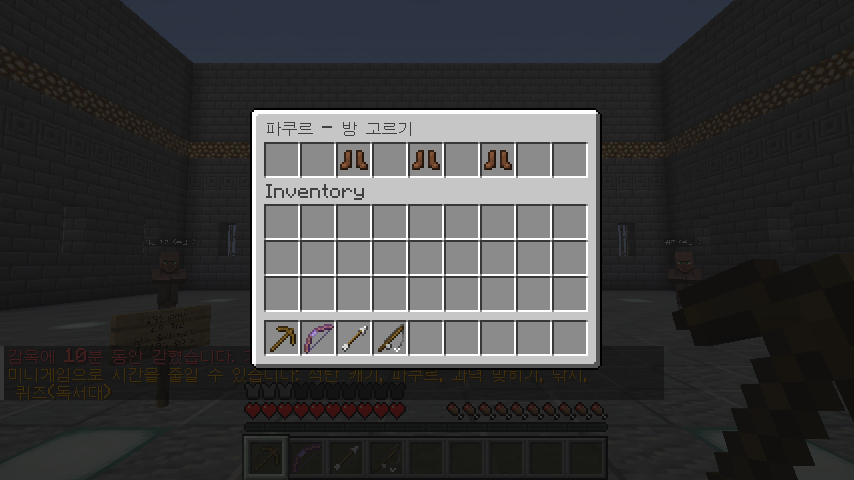
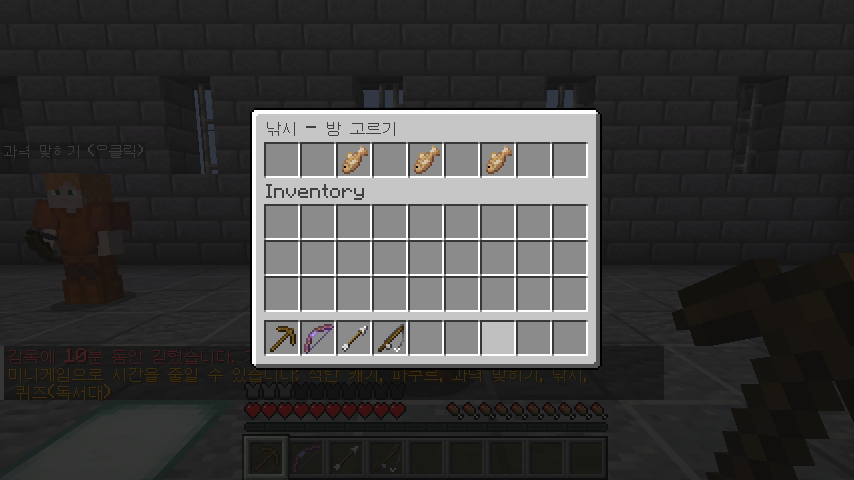
Jail mod: NPCs answer a right-click; prisoners in uniform as NPCs

diff --git a/jail-mod/src/main/java/com/example/jail/JailBuilder.java b/jail-mod/src/main/java/com/example/jail/JailBuilder.java
@@ -5,7 +5,15 @@ import net.minecraft.network.chat.Component;
 import net.minecraft.server.level.ServerLevel;
 import net.minecraft.world.entity.EntitySpawnReason;
 import net.minecraft.world.entity.EntityTypes;
+import com.mojang.brigadier.exceptions.CommandSyntaxException;
+import net.minecraft.nbt.TagParser;
+import net.minecraft.util.ProblemReporter;
+import net.minecraft.world.entity.EquipmentSlot;
+import net.minecraft.world.entity.decoration.Mannequin;
 import net.minecraft.world.entity.npc.villager.Villager;
+import net.minecraft.world.item.ItemStack;
+import net.minecraft.world.item.Items;
+import net.minecraft.world.level.storage.TagValueInput;
 import net.minecraft.world.item.DyeColor;
 import net.minecraft.world.level.block.Block;
 import net.minecraft.world.level.block.Blocks;
@@ -73,7 +81,10 @@ public final class JailBuilder {
         if (!level.areEntitiesLoaded(net.minecraft.world.level.ChunkPos.pack(at))) {
             return;
         }
-        List<Villager> found = level.getEntitiesOfClass(Villager.class, new AABB(at).inflate(1.5), v -> key.equals(npcKey(v)));
+        AABB around = new AABB(at).inflate(1.5);
+        // The first NPCs were villagers: they go.
+        level.getEntitiesOfClass(Villager.class, around, v -> npcKey(v) != null).forEach(v -> v.discard());
+        List<Mannequin> found = level.getEntitiesOfClass(Mannequin.class, around, m -> key.equals(npcKey(m)));
         if (found.isEmpty()) {
             npc(level, at, name, key, looking);
         }
@@ -125,31 +136,44 @@ public final class JailBuilder {
         return window ? Blocks.IRON_BARS : y == 70 ? Blocks.CHISELED_STONE_BRICKS : y % 9 == 0 ? Blocks.GLOWSTONE : Blocks.STONE_BRICKS;
     }
 
-    /** A villager that stands still, cannot be hurt, and shows its name; replaces any NPC already standing there. */
-    public static void npc(ServerLevel level, BlockPos at, String name, String key) {
-        npc(level, at, name, key, SPAWN);
-    }
-
-    /** As above, looking towards a point. */
+    /**
+     * An NPC: a fellow prisoner (a vanilla mannequin, shaped like a player) in the orange uniform, holding the game's
+     * tool, standing still where nothing can hurt or move it, its name shown above it. Replaces any NPC already there.
+     */
     public static void npc(ServerLevel level, BlockPos at, String name, String key, Vec3 looking) {
         AABB around = new AABB(at).inflate(1.5);
-        level.getEntitiesOfClass(Villager.class, around, v -> v.entityTags().contains(NPC_TAG)).forEach(v -> v.discard());
-        Villager villager = EntityTypes.VILLAGER.create(level, EntitySpawnReason.COMMAND);
-        if (villager == null) {
+        level.getEntitiesOfClass(Mannequin.class, around, m -> npcKey(m) != null).forEach(m -> m.discard());
+        Mannequin npc = EntityTypes.MANNEQUIN.create(level, EntitySpawnReason.COMMAND);
+        if (npc == null) {
             return;
+        }
+        try {
+            npc.load(TagValueInput.create(ProblemReporter.DISCARDING, level.registryAccess(),
+                    TagParser.parseCompoundFully("{immovable:1b,hide_description:1b,Invulnerable:1b,Silent:1b,PersistenceRequired:1b}")));
+        } catch (CommandSyntaxException impossible) {
+            throw new IllegalStateException(impossible);
         }
         Vec3 pos = Vec3.atBottomCenterOf(at);
         double yaw = Math.toDegrees(Math.atan2(-(looking.x - pos.x), looking.z - pos.z));
-        villager.snapTo(pos.x, pos.y, pos.z, (float) yaw, 0.0F);
-        villager.setYHeadRot((float) yaw);
-        villager.setNoAi(true);
-        villager.setSilent(true);
-        villager.setPersistenceRequired();
-        villager.setCustomName(Component.literal(name));
-        villager.setCustomNameVisible(true);
-        villager.addTag(NPC_TAG);
-        villager.addTag(NPC_TAG + ":" + key);
-        level.addFreshEntity(villager);
+        npc.snapTo(pos.x, pos.y, pos.z, (float) yaw, 0.0F);
+        npc.setYHeadRot((float) yaw);
+        npc.setYBodyRot((float) yaw);
+        npc.setCustomName(Component.literal(name));
+        npc.setCustomNameVisible(true);
+        npc.setItemSlot(EquipmentSlot.CHEST, Jail.uniformPiece(level, Items.LEATHER_CHESTPLATE, "죄수복 상의"));
+        npc.setItemSlot(EquipmentSlot.LEGS, Jail.uniformPiece(level, Items.LEATHER_LEGGINGS, "죄수복 바지"));
+        npc.setItemSlot(EquipmentSlot.FEET, Jail.uniformPiece(level, Items.LEATHER_BOOTS, "죄수 신발"));
+        npc.setItemSlot(EquipmentSlot.MAINHAND, new ItemStack(switch (key) {
+            case "coal" -> Items.WOODEN_PICKAXE;
+            case "target" -> Items.BOW;
+            case "fish" -> Items.FISHING_ROD;
+            case "quiz" -> Items.BOOK;
+            case "parkour" -> Items.FEATHER;
+            default -> Items.AIR;
+        }));
+        npc.addTag(NPC_TAG);
+        npc.addTag(NPC_TAG + ":" + key);
+        level.addFreshEntity(npc);
     }
 
     /** The key of an NPC ("coal", "exit"...), or null if the entity is not a jail NPC. */

diff --git a/jail-mod/src/gametest/java/com/example/jail/test/JailClientGameTest.java b/jail-mod/src/gametest/java/com/example/jail/test/JailClientGameTest.java
@@ -31,10 +31,49 @@ public final class JailClientGameTest implements FabricClientGameTest {
             }
             shot(context, world, name, "jail_yard", "0.5 64 6 facing 0.5 65 -9");
 
-            world.getServer().runOnServer(server -> RoomMenu.open(player(server, name), MiniGames.Game.PARKOUR));
+            // A real right-click on the fishing NPC opens its room picker.
+            shot(context, world, name, "jail_npc_close", "5.5 64 -7 facing 5.5 65.6 -9.5");
+            net.minecraft.world.phys.Vec3 npcAt = world.getServer().computeOnServer(server -> {
+                var level = Jail.level(server);
+                var found = level.getEntitiesOfClass(net.minecraft.world.entity.decoration.Mannequin.class,
+                        new net.minecraft.world.phys.AABB(-16, 60, -16, 16, 72, 16), m -> "fish".equals(com.example.jail.JailBuilder.npcKey(m)));
+                return found.get(0).position().add(0, 1.2, 0);
+            });
+            context.runOnClient(client -> client.player.lookAt(net.minecraft.commands.arguments.EntityAnchorArgument.Anchor.EYES, npcAt));
+            context.waitTicks(5);
+            context.getInput().pressKey(options -> options.keyUse);
             context.waitTicks(10);
+            boolean menu = world.getServer().computeOnServer(server -> player(server, name).containerMenu instanceof RoomMenu);
+            if (!menu) {
+                throw new AssertionError("right-clicking the fishing NPC opened no room picker");
+            }
             context.takeScreenshot(TestScreenshotOptions.of("jail_room_menu"));
-            world.getServer().runOnServer(server -> player(server, name).closeContainer());
+            world.getServer().runOnServer(server -> player(server, name).containerMenu.clicked(RoomMenu.SLOTS[0], 0,
+                    net.minecraft.world.inventory.ContainerInput.PICKUP, player(server, name)));
+            context.waitTicks(40);
+            boolean inRoom = world.getServer().computeOnServer(server -> Rooms.room(MiniGames.Game.FISH, 0).equals(Rooms.of(player(server, name))));
+            if (!inRoom) {
+                throw new AssertionError("clicking room 1 did not go to fishing room 1");
+            }
+            // A real right-click on the room's NPC goes back to the yard.
+            Rooms.Room fish = Rooms.room(MiniGames.Game.FISH, 0);
+            int fx = fish.origin().getX(), fz = fish.origin().getZ();
+            world.getServer().runCommand("execute in jail:jail run tp " + name + " " + (fx - 27.5) + " 64 " + (fz - 1.5));
+            context.waitTicks(40);
+            net.minecraft.world.phys.Vec3 exitAt = world.getServer().computeOnServer(server -> Jail.level(server)
+                    .getEntitiesOfClass(net.minecraft.world.entity.decoration.Mannequin.class,
+                            new net.minecraft.world.phys.AABB(fx - 32, 60, fz - 10, fx - 20, 72, fz + 10), m -> "exit".equals(com.example.jail.JailBuilder.npcKey(m)))
+                    .get(0).position().add(0, 1.2, 0));
+            context.runOnClient(client -> client.player.lookAt(net.minecraft.commands.arguments.EntityAnchorArgument.Anchor.EYES, exitAt));
+            context.waitTicks(5);
+            world.getConnection().waitForChunksRender();
+            context.takeScreenshot(TestScreenshotOptions.of("jail_exit_npc"));
+            context.getInput().pressKey(options -> options.keyUse);
+            context.waitTicks(10);
+            boolean yard = world.getServer().computeOnServer(server -> com.example.jail.JailBuilder.inHub(player(server, name).position()));
+            if (!yard) {
+                throw new AssertionError("right-clicking the room's NPC did not go back to the yard");
+            }
 
             for (MiniGames.Game game : MiniGames.Game.values()) {
                 world.getServer().runOnServer(server -> Rooms.enter(player(server, name), Rooms.room(game, 0)));

diff --git a/jail-mod/src/gametest/java/com/example/jail/test/JailGameTests.java b/jail-mod/src/gametest/java/com/example/jail/test/JailGameTests.java
@@ -11,7 +11,7 @@ import net.fabricmc.fabric.api.event.player.UseEntityCallback;
 import net.minecraft.core.component.DataComponents;
 import net.minecraft.world.InteractionHand;
 import net.minecraft.world.entity.EquipmentSlot;
-import net.minecraft.world.entity.npc.villager.Villager;
+import net.minecraft.world.entity.decoration.Mannequin;
 import net.minecraft.world.inventory.ContainerInput;
 import net.minecraft.world.phys.AABB;
 import net.fabricmc.fabric.api.gametest.v1.GameTest;
@@ -257,21 +257,26 @@ public final class JailGameTests {
         Jail.jail(player, 5);
         ServerLevel jail = (ServerLevel) player.level();
         helper.succeedWhen(() -> {
-            var npcs = jail.getEntitiesOfClass(Villager.class, new AABB(-16, 60, -16, 16, 72, 16), v -> JailBuilder.npcKey(v) != null);
+            var npcs = jail.getEntitiesOfClass(Mannequin.class, new AABB(-16, 60, -16, 16, 72, 16), v -> JailBuilder.npcKey(v) != null);
             helper.assertValueEqual(npcs.size(), MiniGames.Game.values().length, "NPCs in the yard");
-            helper.assertTrue(npcs.stream().allMatch(Villager::isNoAi), "an NPC walks about");
+            helper.assertTrue(npcs.stream().allMatch(n -> n.getItemBySlot(EquipmentSlot.CHEST).is(Items.LEATHER_CHESTPLATE)), "an NPC without the uniform");
             if (Rooms.of(player) == null) {
-                RoomMenu.open(player, MiniGames.Game.FISH);
+                // A right-click as the game sends it: with the point it hit, for the main hand (and maybe the off hand too).
+                Mannequin fishing = npcs.stream().filter(n -> "fish".equals(JailBuilder.npcKey(n))).findFirst().orElseThrow();
+                var at = new net.minecraft.world.phys.EntityHitResult(fishing, fishing.position().add(0, 1, 0));
+                UseEntityCallback.EVENT.invoker().interact(player, jail, InteractionHand.MAIN_HAND, fishing, at);
+                UseEntityCallback.EVENT.invoker().interact(player, jail, InteractionHand.OFF_HAND, fishing, at);
                 helper.assertTrue(player.containerMenu instanceof RoomMenu, "no room picker: " + player.containerMenu);
                 helper.assertTrue(player.containerMenu.getSlot(RoomMenu.SLOTS[1]).getItem().is(Items.COD), "no icon for fishing room 2");
                 player.containerMenu.clicked(RoomMenu.SLOTS[1], 0, ContainerInput.PICKUP, player);
                 helper.assertTrue(player.containerMenu == player.inventoryMenu, "the room picker stayed open");
             }
             helper.assertTrue(Rooms.room(MiniGames.Game.FISH, 1).equals(Rooms.of(player)), "the click did not go to fishing room 2: " + player.position());
-            var exit = jail.getEntitiesOfClass(Villager.class, new AABB(BlockPos.containing(Rooms.room(MiniGames.Game.FISH, 1).spawn())).inflate(6),
+            var exit = jail.getEntitiesOfClass(Mannequin.class, new AABB(BlockPos.containing(Rooms.room(MiniGames.Game.FISH, 1).spawn())).inflate(6),
                     v -> "exit".equals(JailBuilder.npcKey(v)));
             helper.assertValueEqual(exit.size(), 1, "exit NPCs in the room");
-            UseEntityCallback.EVENT.invoker().interact(player, jail, InteractionHand.MAIN_HAND, exit.get(0), null);
+            UseEntityCallback.EVENT.invoker().interact(player, jail, InteractionHand.MAIN_HAND, exit.get(0),
+                    new net.minecraft.world.phys.EntityHitResult(exit.get(0), exit.get(0).position().add(0, 1, 0)));
             helper.assertTrue(JailBuilder.inHub(player.position()), "the exit NPC did not lead to the yard: " + player.position());
             Jail.release(player);
         });

diff --git a/jail-mod/src/main/java/com/example/jail/Jail.java b/jail-mod/src/main/java/com/example/jail/Jail.java
@@ -240,17 +240,25 @@ public final class Jail {
     }
 
     private static void uniform(ServerPlayer player, EquipmentSlot slot, net.minecraft.world.item.Item item, String name) {
-        if (player.getItemBySlot(slot).is(item)) {
-            return;
+        if (!player.getItemBySlot(slot).is(item)) {
+            player.setItemSlot(slot, uniformPiece(player.level(), item, name));
         }
+    }
+
+    /** A piece of the uniform: orange leather, never wears out, cursed with binding. */
+    public static ItemStack uniformPiece(Level level, net.minecraft.world.item.Item item, String name) {
         ItemStack piece = tool(new ItemStack(item), name);
         piece.set(DataComponents.DYED_COLOR, new DyedItemColor(UNIFORM));
-        piece.enchant(enchantment(player, Enchantments.BINDING_CURSE), 1);
-        player.setItemSlot(slot, piece);
+        piece.enchant(enchantment(level, Enchantments.BINDING_CURSE), 1);
+        return piece;
     }
 
     private static Holder<Enchantment> enchantment(ServerPlayer player, ResourceKey<Enchantment> key) {
-        return player.level().registryAccess().lookupOrThrow(Registries.ENCHANTMENT).getOrThrow(key);
+        return enchantment(player.level(), key);
+    }
+
+    private static Holder<Enchantment> enchantment(Level level, ResourceKey<Enchantment> key) {
+        return level.registryAccess().lookupOrThrow(Registries.ENCHANTMENT).getOrThrow(key);
     }
 
     /** Whether a player has all the jail's things (given again after a death in jail). */

diff --git a/jail-mod/src/main/java/com/example/jail/JailMod.java b/jail-mod/src/main/java/com/example/jail/JailMod.java
@@ -83,8 +83,8 @@ public final class JailMod implements ModInitializer {
             if (key == null) {
                 return InteractionResult.PASS;
             }
-            // Each right-click comes as two packets (with and without a hit point) and for each hand: act on one.
-            if (hand == InteractionHand.MAIN_HAND && hit == null && player instanceof ServerPlayer prisoner) {
+            // A right-click can come for each hand, and twice from some games: act once, for the main hand.
+            if (hand == InteractionHand.MAIN_HAND && player instanceof ServerPlayer prisoner && MiniGames.firstClick(prisoner)) {
                 if (!Jail.isJailed(prisoner)) {
                     prisoner.sendSystemMessage(Component.literal("감옥에 있는 사람만 쓸 수 있습니다."));
                 } else if (key.equals("exit")) {

diff --git a/jail-mod/src/main/java/com/example/jail/MiniGames.java b/jail-mod/src/main/java/com/example/jail/MiniGames.java
@@ -91,6 +91,14 @@ public final class MiniGames {
     private static final Map<UUID, Integer> ANSWERS = new HashMap<>();
     private static final Map<UUID, String> QUESTIONS = new HashMap<>();
     private static final Map<UUID, Map<Game, Long>> READY_AT = new HashMap<>();
+    private static final Map<UUID, Long> LAST_CLICK = new HashMap<>();
+
+    /** True for a player's first NPC click in a short while, so one right-click does one thing. */
+    public static boolean firstClick(ServerPlayer player) {
+        long now = player.level().getServer().getTickCount();
+        Long last = LAST_CLICK.put(player.getUUID(), now);
+        return last == null || now - last > 4;
+    }
 
     private MiniGames() {
     }

diff --git a/jail-mod/README.md b/jail-mod/README.md
@@ -24,7 +24,7 @@ Minecraft 26.3 · Fabric (Fabric Loader 0.19.5 이상, Fabric API 필요)
 
 ## 미니게임 방
 
-- 마당에는 미니게임마다 **NPC**가 하나씩 서 있습니다. **우클릭**하면 그 미니게임의 **방 3개**와 각 방에 있는 사람이 나오고, 방을 누르면 그 방으로 갑니다.
+- 마당에는 미니게임마다 **NPC**(죄수복을 입은 다른 죄수, 그 미니게임 도구를 들고 있음)가 하나씩 서 있습니다. **우클릭**하면 그 미니게임의 **방 3개**와 각 방에 있는 사람이 나오고, 방을 누르면 그 방으로 갑니다.
 - 친구가 있는 방을 고르면 **같이**, 빈 방을 고르면 **혼자** 합니다. 방은 감옥 차원 안에서 서로 멀리 떨어져 있어 다른 방과는 만날 수 없습니다.
 - **같이 하면**: 누가 시간을 줄이면 **직접 한 사람은 그대로**, 같은 방의 **다른 사람은 그 1/10**만큼 같이 줄어듭니다. 다른 방 사람은 줄지 않습니다.
 - 방마다 **"마당으로 돌아가기" NPC**가 있습니다.
@@ -65,9 +65,9 @@ Minecraft 26.3 · Fabric (Fabric Loader 0.19.5 이상, Fabric API 필요)
   - 물건·레벨·자리·게임 모드를 맡겼다 돌려줌(석탄·죄수복·감옥 도구는 사라짐), 죄수복 색
   - 다섯 미니게임이 각자의 방에서 시간을 줄이고, 쿨타임 동안은 인정되지 않음(파쿠르 30초)
   - 같은 방의 친구는 1/10, 다른 방은 0
-  - 마당 NPC 5명, 방 고르기 창에서 방을 누르면 그 방으로, 방의 NPC로 마당 복귀
+  - 마당 NPC 5명(죄수복), 실제 게임처럼 클릭 위치가 붙은 우클릭으로 방 고르기 창, 방을 누르면 그 방으로, 방의 NPC로 마당 복귀
   - 퀴즈가 한 번 우클릭에 한 번만 나옴(보조손 패킷 무시)
   - 시간이 다 되면 자동 석방, 저장했다 불러와도 그대로, `/감옥`·`/석방` 한글 명령어
 - 실제 전용 서버에서 감옥 차원이 생기는 것을 확인했습니다.
-- 싱글플레이 화면에서 `/감옥` → 마당 NPC, 방 고르기 창, 다섯 방, 파쿠르 코스, 죄수복 → `/석방`까지 확인했습니다.
+- 싱글플레이 화면에서 `/감옥` → 마당 NPC를 **실제 우클릭 키로** 눌러 방 고르기 창, 방의 NPC를 실제 우클릭해 마당 복귀, 다섯 방, 파쿠르 코스, 죄수복 → `/석방`까지 확인했습니다.
 - 파쿠르 점프를 사람이 직접 끝까지 뛰어 보지는 않았습니다.
